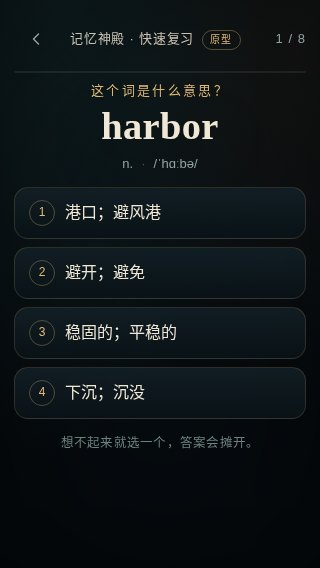
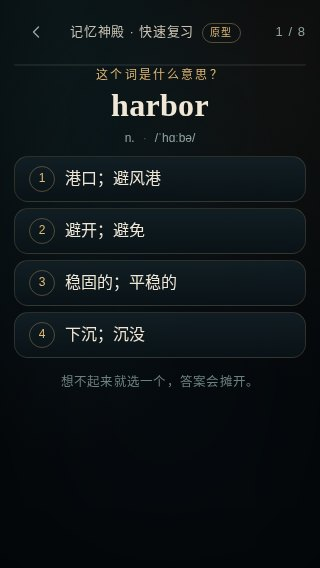
fix: 320px 宽度下让反馈态也在一屏内
补充 max-height:620px 的紧凑排版，并更新 320 截图。

diff --git a/prototype/review-big-button/index.html b/prototype/review-big-button/index.html
@@ -648,6 +648,67 @@
         }
       }
 
+      @media (max-height: 620px) {
+        .app {
+          padding-top: 10px;
+          padding-bottom: calc(8px + env(safe-area-inset-bottom));
+        }
+
+        .stage {
+          padding: 0;
+        }
+
+        .prompt {
+          font-size: 12px;
+        }
+
+        .word {
+          font-size: clamp(2rem, 7vw, 2.6rem);
+        }
+
+        .meta {
+          margin-top: 6px;
+          font-size: 12px;
+        }
+
+        .options {
+          margin-top: 8px;
+          gap: 6px;
+        }
+
+        .option {
+          min-height: 46px;
+        }
+
+        .feedback {
+          margin-top: 6px;
+          padding: 8px 12px 10px;
+        }
+
+        .fb-answer {
+          margin-top: 4px;
+          font-size: 15px;
+        }
+
+        .fb-example {
+          margin-top: 3px;
+          font-size: 12.5px;
+        }
+
+        .fb-example .zh {
+          font-size: 12px;
+        }
+
+        .fb-meta {
+          margin-top: 6px;
+        }
+
+        .next {
+          min-height: 46px;
+          margin-top: 8px;
+        }
+      }
+
       @media (prefers-reduced-motion: reduce) {
         *,
         *::before,
